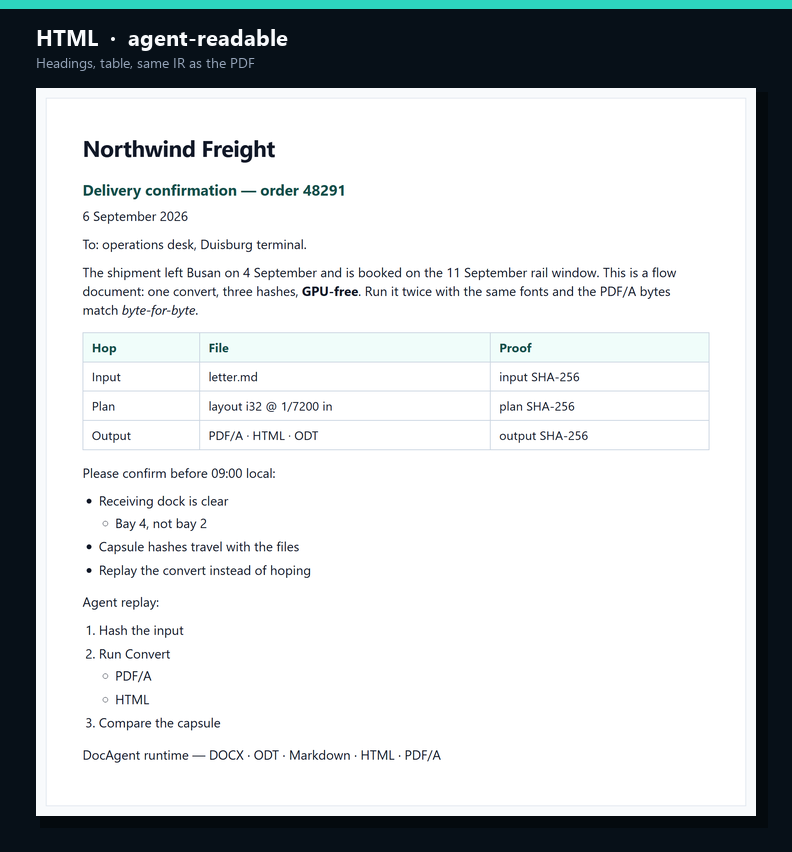
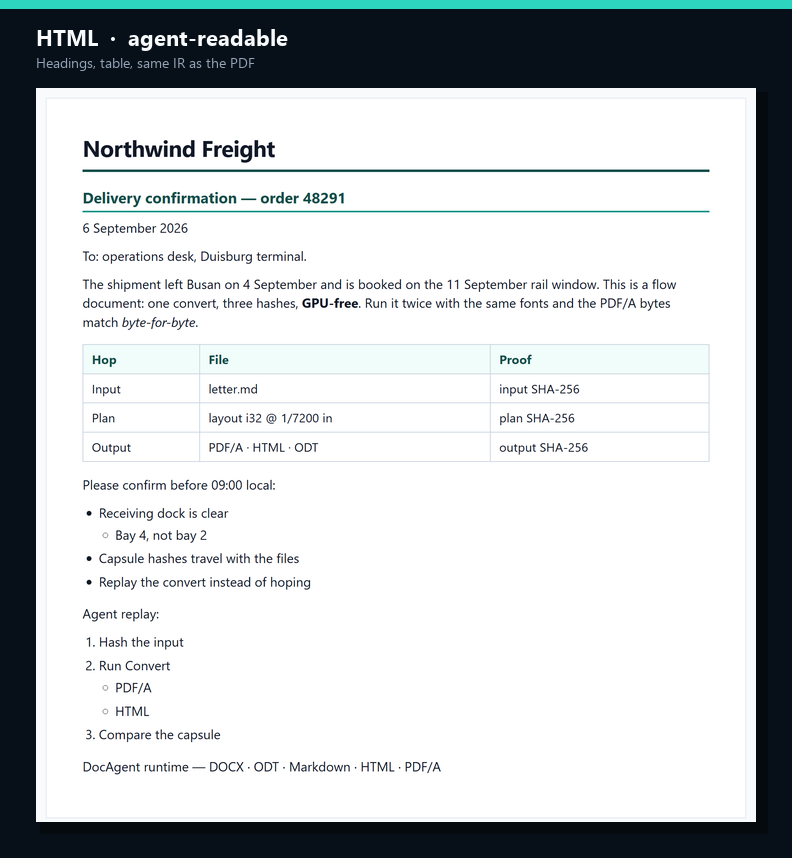
Paint heading rules as PDF fills beyond table grids.

diff --git a/docs/assets/letter.html b/docs/assets/letter.html
@@ -1,1 +1,1 @@
-<!DOCTYPE html><html lang="en"><head><meta charset="utf-8"/><title>DocAgent</title><style>body{margin:0;background:#f8fafc;color:#111827}article{max-width:48rem;margin:2rem auto;padding:2.5rem 2.75rem;background:#fff;border:1px solid #e2e8f0;font-family:"Segoe UI",Roboto,Helvetica,Arial,sans-serif;line-height:1.45}h1{font-size:1.75rem;margin:0 0 .6rem;letter-spacing:-.02em}h2{font-size:1.15rem;margin:1.1rem 0 .45rem;color:#134e4a}p{margin:0 0 .7rem}strong{font-weight:700}em{font-style:italic}ul,ol{margin:0 0 1rem;padding-left:1.25rem}ul ul,ol ul,ul ol,ol ol{margin:.25rem 0}li{margin:0 0 .35rem}table{border-collapse:collapse;margin:1rem 0;width:100%}th,td{border:1px solid #cbd5e1;padding:.4rem .65rem;text-align:left;font-size:.95rem}th{background:#f0fdfa;color:#134e4a}</style></head><body><article data-section="0"><section><h1><strong>Northwind Freight</strong></h1><h2><strong>Delivery confirmation — order 48291</strong></h2><p>6 September 2026</p><p>To: operations desk, Duisburg terminal.</p><p>The shipment left Busan on 4 September and is booked on the 11 September rail window. This is a flow document: one convert, three hashes, <strong>GPU-free</strong>. Run it twice with the same fonts and the PDF/A bytes match <em>byte-for-byte</em>.</p><table><tr><th>Hop</th><th>File</th><th>Proof</th></tr><tr><td>Input</td><td>letter.md</td><td>input SHA-256</td></tr><tr><td>Plan</td><td>layout i32 @ 1/7200 in</td><td>plan SHA-256</td></tr><tr><td>Output</td><td>PDF/A · HTML · ODT</td><td>output SHA-256</td></tr></table><p>Please confirm before 09:00 local:</p><ul><li>Receiving dock is clear<ul><li>Bay 4, not bay 2</li></ul></li><li>Capsule hashes travel with the files</li><li>Replay the convert instead of hoping</li></ul><p>Agent replay:</p><ol><li>Hash the input</li><li>Run Convert<ul><li>PDF/A</li><li>HTML</li></ul></li><li>Compare the capsule</li></ol><p>DocAgent runtime — DOCX · ODT · Markdown · HTML · PDF/A</p></section></article></body></html>
+<!DOCTYPE html><html lang="en"><head><meta charset="utf-8"/><title>DocAgent</title><style>body{margin:0;background:#f8fafc;color:#111827}article{max-width:48rem;margin:2rem auto;padding:2.5rem 2.75rem;background:#fff;border:1px solid #e2e8f0;font-family:"Segoe UI",Roboto,Helvetica,Arial,sans-serif;line-height:1.45}h1{font-size:1.75rem;margin:0 0 .6rem;letter-spacing:-.02em;padding-bottom:.4rem;border-bottom:3px solid #134e4a}h2{font-size:1.15rem;margin:1.1rem 0 .45rem;color:#134e4a;padding-bottom:.2rem;border-bottom:2px solid #0d9488}p{margin:0 0 .7rem}strong{font-weight:700}em{font-style:italic}ul,ol{margin:0 0 1rem;padding-left:1.25rem}ul ul,ol ul,ul ol,ol ol{margin:.25rem 0}li{margin:0 0 .35rem}table{border-collapse:collapse;margin:1rem 0;width:100%}th,td{border:1px solid #cbd5e1;padding:.4rem .65rem;text-align:left;font-size:.95rem}th{background:#f0fdfa;color:#134e4a}</style></head><body><article data-section="0"><section><h1><strong>Northwind Freight</strong></h1><h2><strong>Delivery confirmation — order 48291</strong></h2><p>6 September 2026</p><p>To: operations desk, Duisburg terminal.</p><p>The shipment left Busan on 4 September and is booked on the 11 September rail window. This is a flow document: one convert, three hashes, <strong>GPU-free</strong>. Run it twice with the same fonts and the PDF/A bytes match <em>byte-for-byte</em>.</p><table><tr><th>Hop</th><th>File</th><th>Proof</th></tr><tr><td>Input</td><td>letter.md</td><td>input SHA-256</td></tr><tr><td>Plan</td><td>layout i32 @ 1/7200 in</td><td>plan SHA-256</td></tr><tr><td>Output</td><td>PDF/A · HTML · ODT</td><td>output SHA-256</td></tr></table><p>Please confirm before 09:00 local:</p><ul><li>Receiving dock is clear<ul><li>Bay 4, not bay 2</li></ul></li><li>Capsule hashes travel with the files</li><li>Replay the convert instead of hoping</li></ul><p>Agent replay:</p><ol><li>Hash the input</li><li>Run Convert<ul><li>PDF/A</li><li>HTML</li></ul></li><li>Compare the capsule</li></ol><p>DocAgent runtime — DOCX · ODT · Markdown · HTML · PDF/A</p></section></article></body></html>

diff --git a/crates/docagent-layout/src/lib.rs b/crates/docagent-layout/src/lib.rs
@@ -27,7 +27,7 @@ pub struct PageFrag {
     pub height: Hu,
     pub lines: Vec<LineFrag>,
     pub rects: Vec<RectFrag>,
-    /// Table grid strokes. Not counted by `table_row_heights`.
+    /// Table grid strokes and heading rules. Not counted by `table_row_heights`.
     pub strokes: Vec<RectFrag>,
 }
 
@@ -90,8 +90,16 @@ fn layout_section(section: &Section, fonts: &FontSet) -> Vec<PageFrag> {
 
     for item in prepared {
         match item {
-            Prepared::Lines { lines, space_before, space_after } => {
+            Prepared::Lines {
+                lines,
+                space_before,
+                space_after,
+                rule,
+            } => {
                 y += space_before;
+                let mut text_left: Option<Hu> = None;
+                let mut text_right = origin_x;
+                let mut block_bottom = y;
                 for line in lines {
                     if y + line.height > origin_y + content_h && !current.lines.is_empty() {
                         pages.push(std::mem::replace(
@@ -103,8 +111,29 @@ fn layout_section(section: &Section, fonts: &FontSet) -> Vec<PageFrag> {
                     let mut placed = line;
                     placed.x = origin_x.saturating_add(placed.x);
                     placed.y = y;
+                    if placed.width > 0 {
+                        text_left = Some(text_left.map_or(placed.x, |l| l.min(placed.x)));
+                        text_right = text_right.max(placed.x.saturating_add(placed.width));
+                    }
                     y += placed.height;
+                    if placed.height > 0 {
+                        block_bottom = y;
+                    }
                     current.lines.push(placed);
+                }
+                if let (Some(rule), Some(left)) = (rule, text_left) {
+                    let (rx, rw) = if rule.span_content {
+                        (origin_x, content_w)
+                    } else {
+                        (left, (text_right - left).max(1))
+                    };
+                    current.strokes.push(RectFrag {
+                        x: rx,
+                        y: block_bottom.saturating_add(80),
+                        width: rw,
+                        height: rule.thickness,
+                        fill: rule.color,
+                    });
                 }
                 y += space_after;
             }
@@ -206,6 +235,7 @@ enum Prepared {
         lines: Vec<LineFrag>,
         space_before: Hu,
         space_after: Hu,
+        rule: Option<HeadingRule>,
     },
     Table {
         rows: Vec<Vec<PreparedCell>>,
@@ -213,6 +243,28 @@ enum Prepared {
         stroke_w: Hu,
         stroke: [u8; 4],
     },
+}
+
+struct HeadingRule {
+    thickness: Hu,
+    color: [u8; 4],
+    span_content: bool,
+}
+
+fn heading_rule(level: Option<u8>) -> Option<HeadingRule> {
+    match level {
+        Some(1) => Some(HeadingRule {
+            thickness: 200,
+            color: [19, 78, 74, 255],
+            span_content: true,
+        }),
+        Some(n) if n >= 2 => Some(HeadingRule {
+            thickness: 100,
+            color: [13, 148, 136, 255],
+            span_content: false,
+        }),
+        _ => None,
+    }
 }
 
 struct PreparedCell {
@@ -227,12 +279,14 @@ fn prepare_block(block: &Block, fonts: &FontSet, width: Hu) -> Prepared {
             lines: layout_paragraph(p, fonts, width),
             space_before: p.space_before.max(0),
             space_after: p.space_after.max(0),
+            rule: heading_rule(p.outline_level),
         },
         Block::Table(t) => prepare_table(t, fonts, width),
         Block::Float(_) | Block::Break(_) => Prepared::Lines {
             lines: Vec::new(),
             space_before: 0,
             space_after: 0,
+            rule: None,
         },
     }
 }
@@ -642,6 +696,43 @@ mod tests {
         assert_eq!(page.rects.len(), 4, "one fill per cell");
         assert!(page.strokes.len() >= 16, "four edges per cell");
         assert_eq!(table_row_heights(&tree).len(), 4);
+    }
+
+    #[test]
+    fn headings_emit_rule_fills() {
+        let mut doc = Document::new();
+        let mut section = Section::default();
+        let mut h1 = Paragraph::from_text("Northwind Freight");
+        h1.outline_level = Some(1);
+        h1.runs[0].style.size = 1800;
+        h1.runs[0].style.bold = true;
+        section.body.push(Block::Paragraph(h1));
+        let mut h2 = Paragraph::from_text("Delivery confirmation");
+        h2.outline_level = Some(2);
+        h2.runs[0].style.size = 1400;
+        h2.runs[0].style.bold = true;
+        section.body.push(Block::Paragraph(h2));
+        section
+            .body
+            .push(Block::Paragraph(Paragraph::from_text("Body copy")));
+        doc.sections.push(section);
+        let tree = layout_document(&doc, &FontSet::bundled());
+        let page = &tree.pages[0];
+        assert!(
+            page.rects.is_empty(),
+            "heading rules must not count as table cell fills"
+        );
+        assert!(
+            page.strokes.iter().any(|s| s.fill == [19, 78, 74, 255] && s.height == 200 && s.width > 1000),
+            "h1 rule missing: {:?}",
+            page.strokes
+        );
+        assert!(
+            page.strokes.iter().any(|s| s.fill == [13, 148, 136, 255] && s.height == 100 && s.width > 0),
+            "h2 rule missing: {:?}",
+            page.strokes
+        );
+        assert_eq!(table_row_heights(&tree).len(), 0);
     }
 
     #[test]

diff --git a/crates/docagent-html/src/lib.rs b/crates/docagent-html/src/lib.rs
@@ -6,7 +6,7 @@ use docagent_model::{Block, Document, Paragraph, RunContent, Table};
 
 pub fn to_html(doc: &Document) -> String {
     let mut s = String::from(
-        r#"<!DOCTYPE html><html lang="en"><head><meta charset="utf-8"/><title>DocAgent</title><style>body{margin:0;background:#f8fafc;color:#111827}article{max-width:48rem;margin:2rem auto;padding:2.5rem 2.75rem;background:#fff;border:1px solid #e2e8f0;font-family:"Segoe UI",Roboto,Helvetica,Arial,sans-serif;line-height:1.45}h1{font-size:1.75rem;margin:0 0 .6rem;letter-spacing:-.02em}h2{font-size:1.15rem;margin:1.1rem 0 .45rem;color:#134e4a}p{margin:0 0 .7rem}strong{font-weight:700}em{font-style:italic}ul,ol{margin:0 0 1rem;padding-left:1.25rem}ul ul,ol ul,ul ol,ol ol{margin:.25rem 0}li{margin:0 0 .35rem}table{border-collapse:collapse;margin:1rem 0;width:100%}th,td{border:1px solid #cbd5e1;padding:.4rem .65rem;text-align:left;font-size:.95rem}th{background:#f0fdfa;color:#134e4a}</style></head><body>"#,
+        r#"<!DOCTYPE html><html lang="en"><head><meta charset="utf-8"/><title>DocAgent</title><style>body{margin:0;background:#f8fafc;color:#111827}article{max-width:48rem;margin:2rem auto;padding:2.5rem 2.75rem;background:#fff;border:1px solid #e2e8f0;font-family:"Segoe UI",Roboto,Helvetica,Arial,sans-serif;line-height:1.45}h1{font-size:1.75rem;margin:0 0 .6rem;letter-spacing:-.02em;padding-bottom:.4rem;border-bottom:3px solid #134e4a}h2{font-size:1.15rem;margin:1.1rem 0 .45rem;color:#134e4a;padding-bottom:.2rem;border-bottom:2px solid #0d9488}p{margin:0 0 .7rem}strong{font-weight:700}em{font-style:italic}ul,ol{margin:0 0 1rem;padding-left:1.25rem}ul ul,ol ul,ul ol,ol ol{margin:.25rem 0}li{margin:0 0 .35rem}table{border-collapse:collapse;margin:1rem 0;width:100%}th,td{border:1px solid #cbd5e1;padding:.4rem .65rem;text-align:left;font-size:.95rem}th{background:#f0fdfa;color:#134e4a}</style></head><body>"#,
     );
     for (i, section) in doc.sections.iter().enumerate() {
         s.push_str(&format!(r#"<article data-section="{i}">"#));
@@ -225,6 +225,8 @@ mod tests {
         let html = to_html(&doc);
         assert!(html.contains("<h1>") && html.contains("Title") && html.contains("</h1>"));
         assert!(html.contains("<h2>") && html.contains("Section") && html.contains("</h2>"));
+        assert!(html.contains("border-bottom:3px solid #134e4a"));
+        assert!(html.contains("border-bottom:2px solid #0d9488"));
     }
 
     #[test]

diff --git a/crates/docagent-pdf/src/lib.rs b/crates/docagent-pdf/src/lib.rs
@@ -246,6 +246,44 @@ mod tests {
     }
 
     #[test]
+    fn heading_rule_paints_non_grid_fill() {
+        let mut doc = Document::new();
+        let mut section = Section::default();
+        let mut h1 = Paragraph::from_text("Northwind Freight");
+        h1.outline_level = Some(1);
+        h1.runs[0].style.size = 1800;
+        h1.runs[0].style.bold = true;
+        section.body.push(Block::Paragraph(h1));
+        doc.sections.push(section);
+        let tree = layout_document(&doc, &FontSet::bundled());
+        let list = paint(&tree);
+        assert!(
+            list.ops.iter().any(|op| {
+                matches!(
+                    op,
+                    Op::FillRect { color, h, w, .. }
+                        if *color == [19, 78, 74, 255] && *h == 200 && *w > 1000
+                )
+            }),
+            "heading rule must paint a non-table fill"
+        );
+        let with_rule = to_pdfa(&list, &FontSet::bundled()).expect("pdf");
+        let mut plain = Document::new();
+        let mut section = Section::default();
+        section
+            .body
+            .push(Block::Paragraph(Paragraph::from_text("Northwind Freight")));
+        plain.sections.push(section);
+        let plain_pdf = to_pdfa(
+            &paint(&layout_document(&plain, &FontSet::bundled())),
+            &FontSet::bundled(),
+        )
+        .expect("pdf");
+        assert_ne!(with_rule, plain_pdf, "heading rule must change PDF bytes");
+        assert!(claims_pdfa(&with_rule));
+    }
+
+    #[test]
     fn synthetic_bold_changes_pdf_bytes() {
         fn pdf_for(bold: bool) -> Vec<u8> {
             let mut doc = Document::new();

diff --git a/README.md b/README.md
@@ -91,7 +91,7 @@ Not a slogan. Two `Command::Convert` calls on [`examples/letter.md`](examples/le
 | --- | --- |
[4 lines of base64/hex data omitted]
 
 These are the hashes in [`letter-capsule.json`](docs/assets/letter-capsule.json). MinerU and Docling do not ship this. We do not ship OmniDocBench numbers.
 
@@ -102,7 +102,7 @@ These three pictures are the convert of [`examples/letter.md`](examples/letter.m
 <p align="center">
   <img src="docs/assets/output-pdf.png" alt="PDF/A page produced by DocAgent from examples/letter.md" width="100%">
 </p>
-<p align="center"><sub>PDF/A from the integer layout engine. Table grid is painted. Bold is a second fill; italic is a 0.20 shear on the Regular face (GPU-free, <em>byte-for-byte</em>). Same fonts → same bytes on the next run.</sub></p>
+<p align="center"><sub>PDF/A from the integer layout engine. Heading rules are painted fills, not table grids. Bold is a second fill; italic is a 0.20 shear on the Regular face (GPU-free, <em>byte-for-byte</em>). Same fonts → same bytes on the next run.</sub></p>
 
 <p align="center">
   <img src="docs/assets/output-html.png" alt="Semantic HTML produced by DocAgent from the same letter" width="100%">
@@ -128,7 +128,7 @@ These three pictures are the convert of [`examples/letter.md`](examples/letter.m
 | --- | --- |
 | **IR** | Format-blind document model. Layout never sees “docx” or “hwp”. |
 | **Layout** | One engine. Coordinates are `i32` at 1/7200 inch. `f32` is forbidden. |
-| **PDF/A** | Archival print. Two runs, same fonts, same bytes. |
+| **PDF/A** | Archival print. Heading rules and table fills are `FillRect`s. Two runs, same fonts, same bytes. |
 | **DOCX / ODT** | Headings as `w:pStyle Heading1/2` + `text:h`. Runs keep `w:b`/`w:i` in body and table cells. |
 | **HTML** | Semantic HTML an agent can read back. |
 | **Capsule** | Three SHA-256 hashes on every Command so a retry is evidence, not hope. |

diff --git a/docs/loop/STATE.md b/docs/loop/STATE.md
@@ -1,25 +1,25 @@
 # DocAgent #1 loop state
 
-Last cycle: 12 (2026-09-06) — DOCX/ODT headings + cell emphasis
+Last cycle: 13 (2026-09-06) — PDF heading-rule fills
 
 ## Public GitHub page (priority 0)
 
 The page strangers see is `https://github.com/kevin9327/docagent`.
 
 Shipped this cycle:
-- DOCX write emits `w:pStyle Heading1/2` + `w:outlineLvl` and `word/styles.xml`; read restores `outline_level` and run size.
-- Table cells keep `w:b` / `w:i` instead of flattening to plain text.
-- ODT write emits `text:h text:outline-level`; table cells keep `text:span` Tbold/Titalic; read restores both.
-- [`letter.docx`](../assets/letter.docx) and [`letter.odt`](../assets/letter.odt) from `examples/letter.md` carry Heading 1/2. PDF/A + HTML hashes unchanged.
+- Layout paints heading rules as non-table `FillRect`s (H1 full-width 2pt `#134e4a`, H2 text-width 1pt `#0d9488`).
+- Table cell fills stay on `rects`; heading rules go on `strokes` so `table_row_heights` is unchanged.
+- HTML matches with `border-bottom` on `h1`/`h2`.
+- Regenerated [letter.pdf](../assets/letter.pdf), [letter.html](../assets/letter.html), capsule, prove JSON, and README screenshots.
 
 Verified hashes (engine 0.1.0, letter.md → PDF/A + HTML):
[4 lines of base64/hex data omitted]
 
 ## Next
 
-1. PDF fills beyond table grids (header fill already ships; next is non-table fills), or heading size in ODT text-properties.
+1. Heading size in ODT text-properties, or HTML table-cell emphasis.
 2. Keep visual density at or above MinerU/Docling for an *agent document runtime*.
 
 ## Rule
